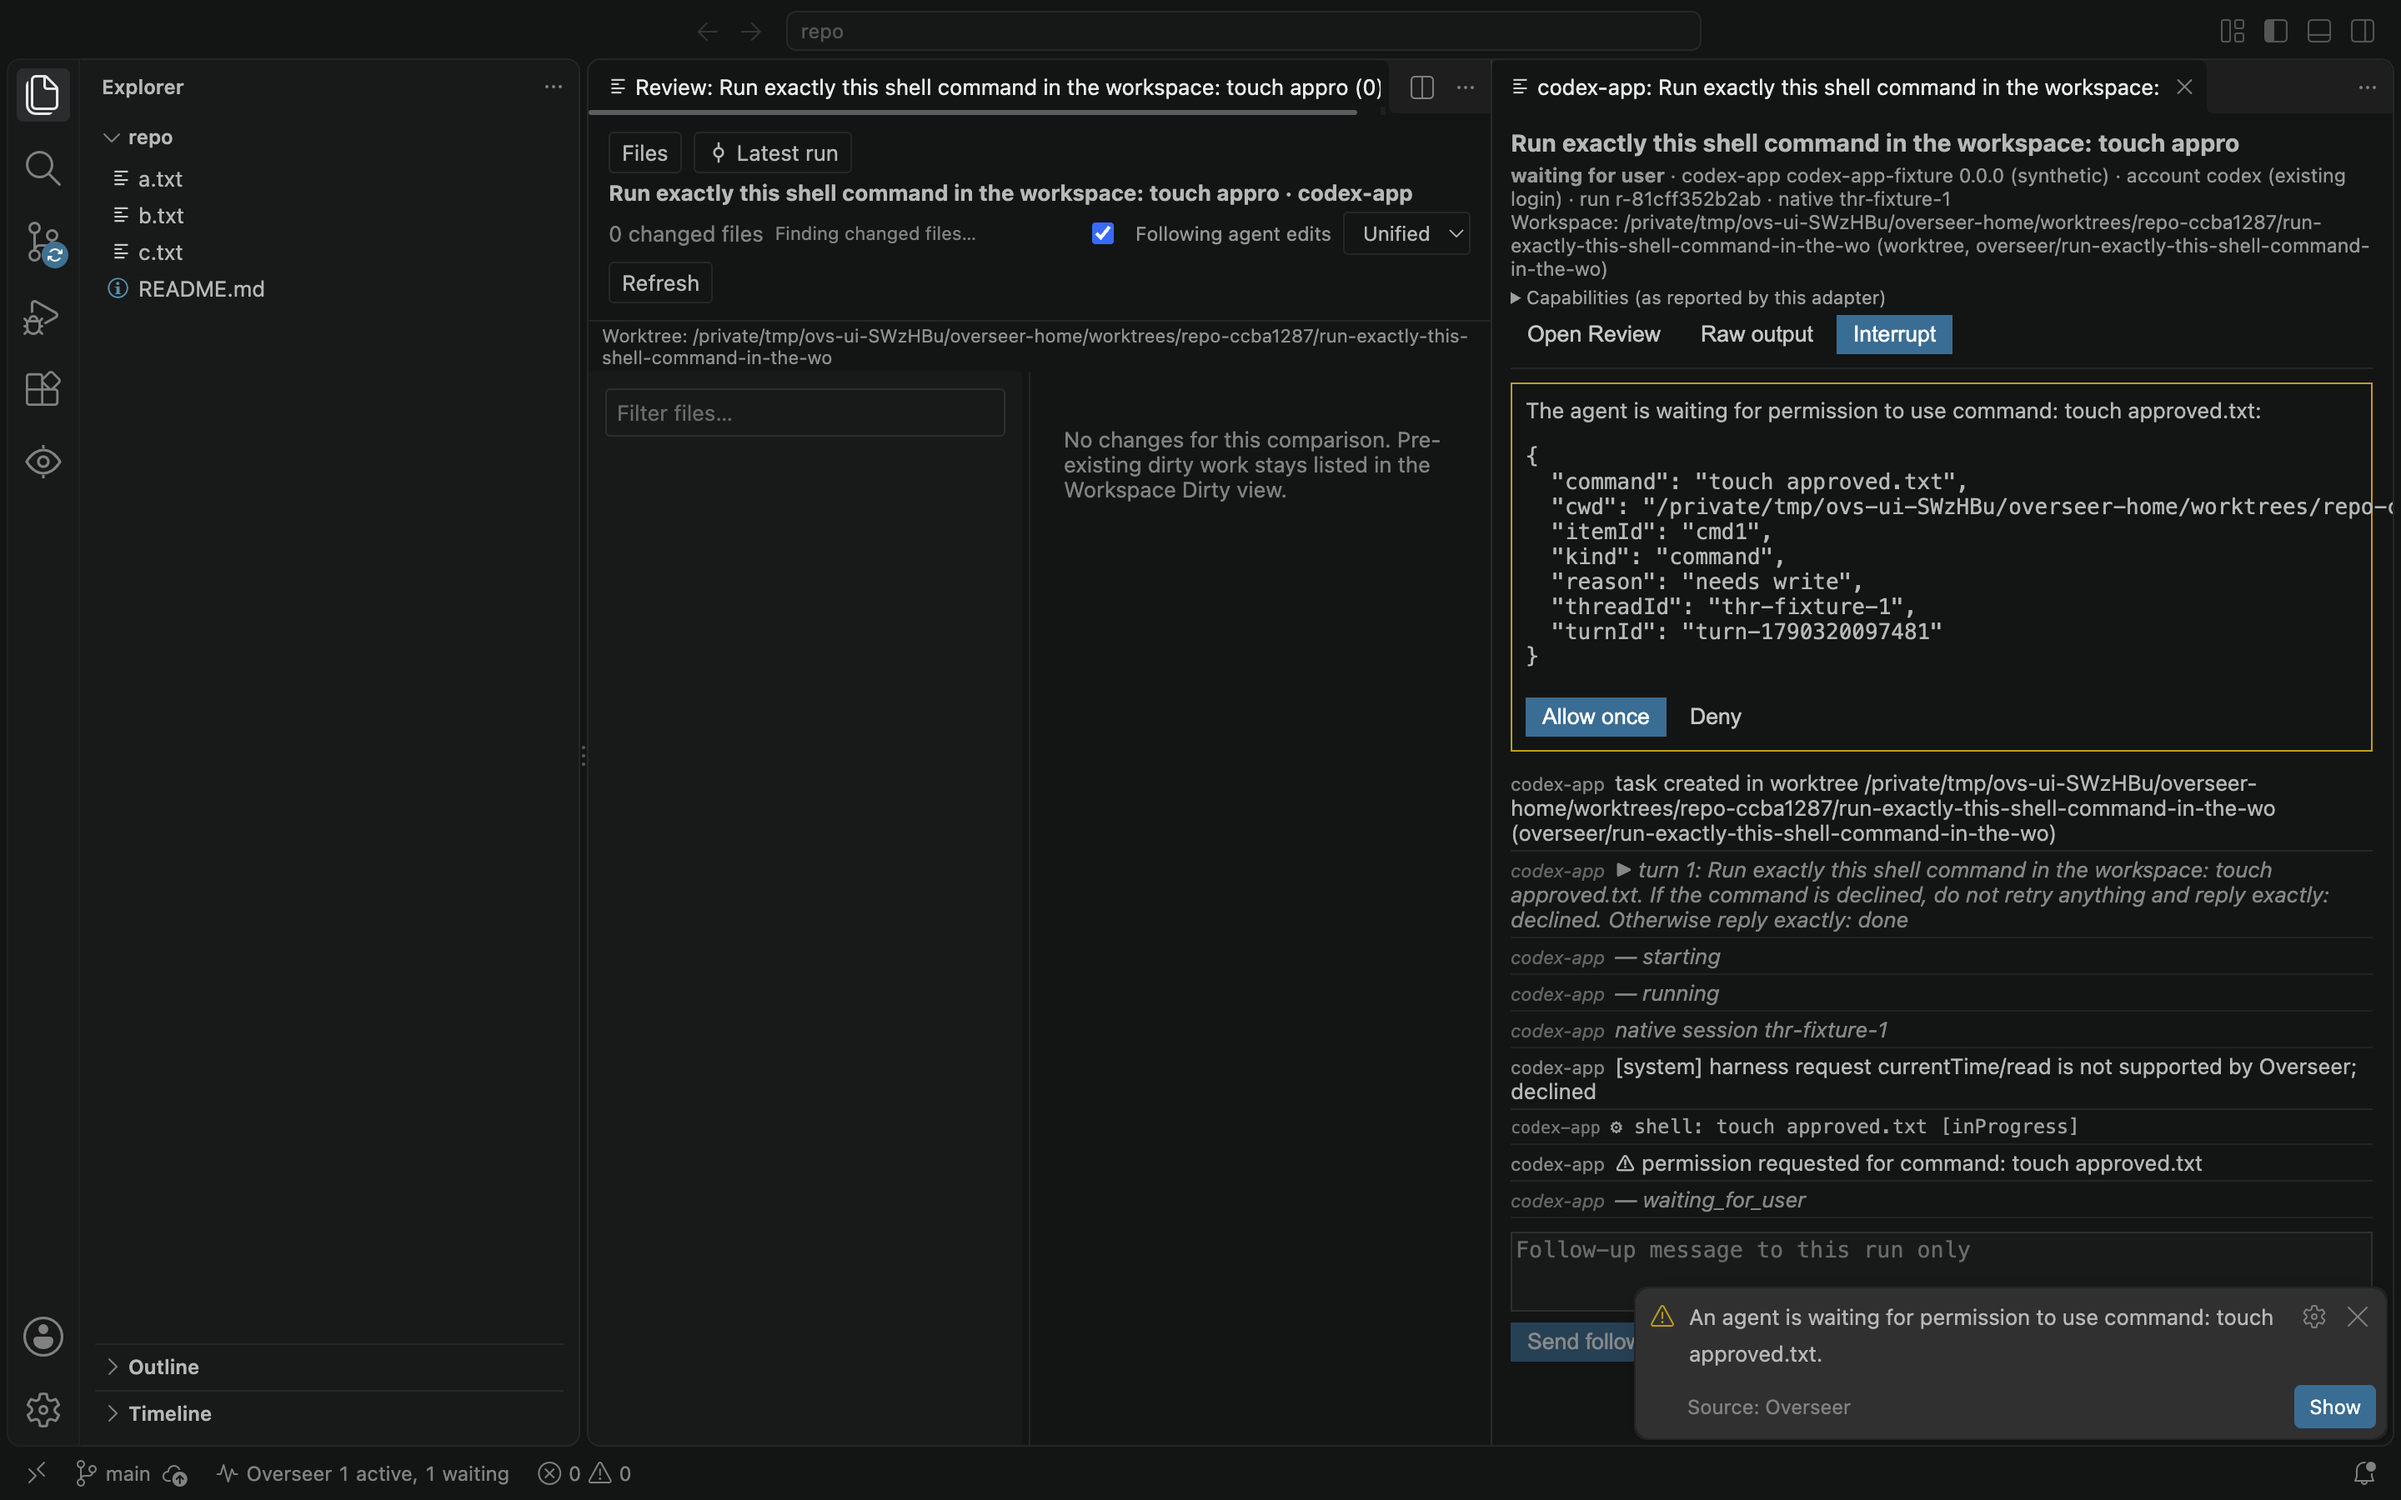
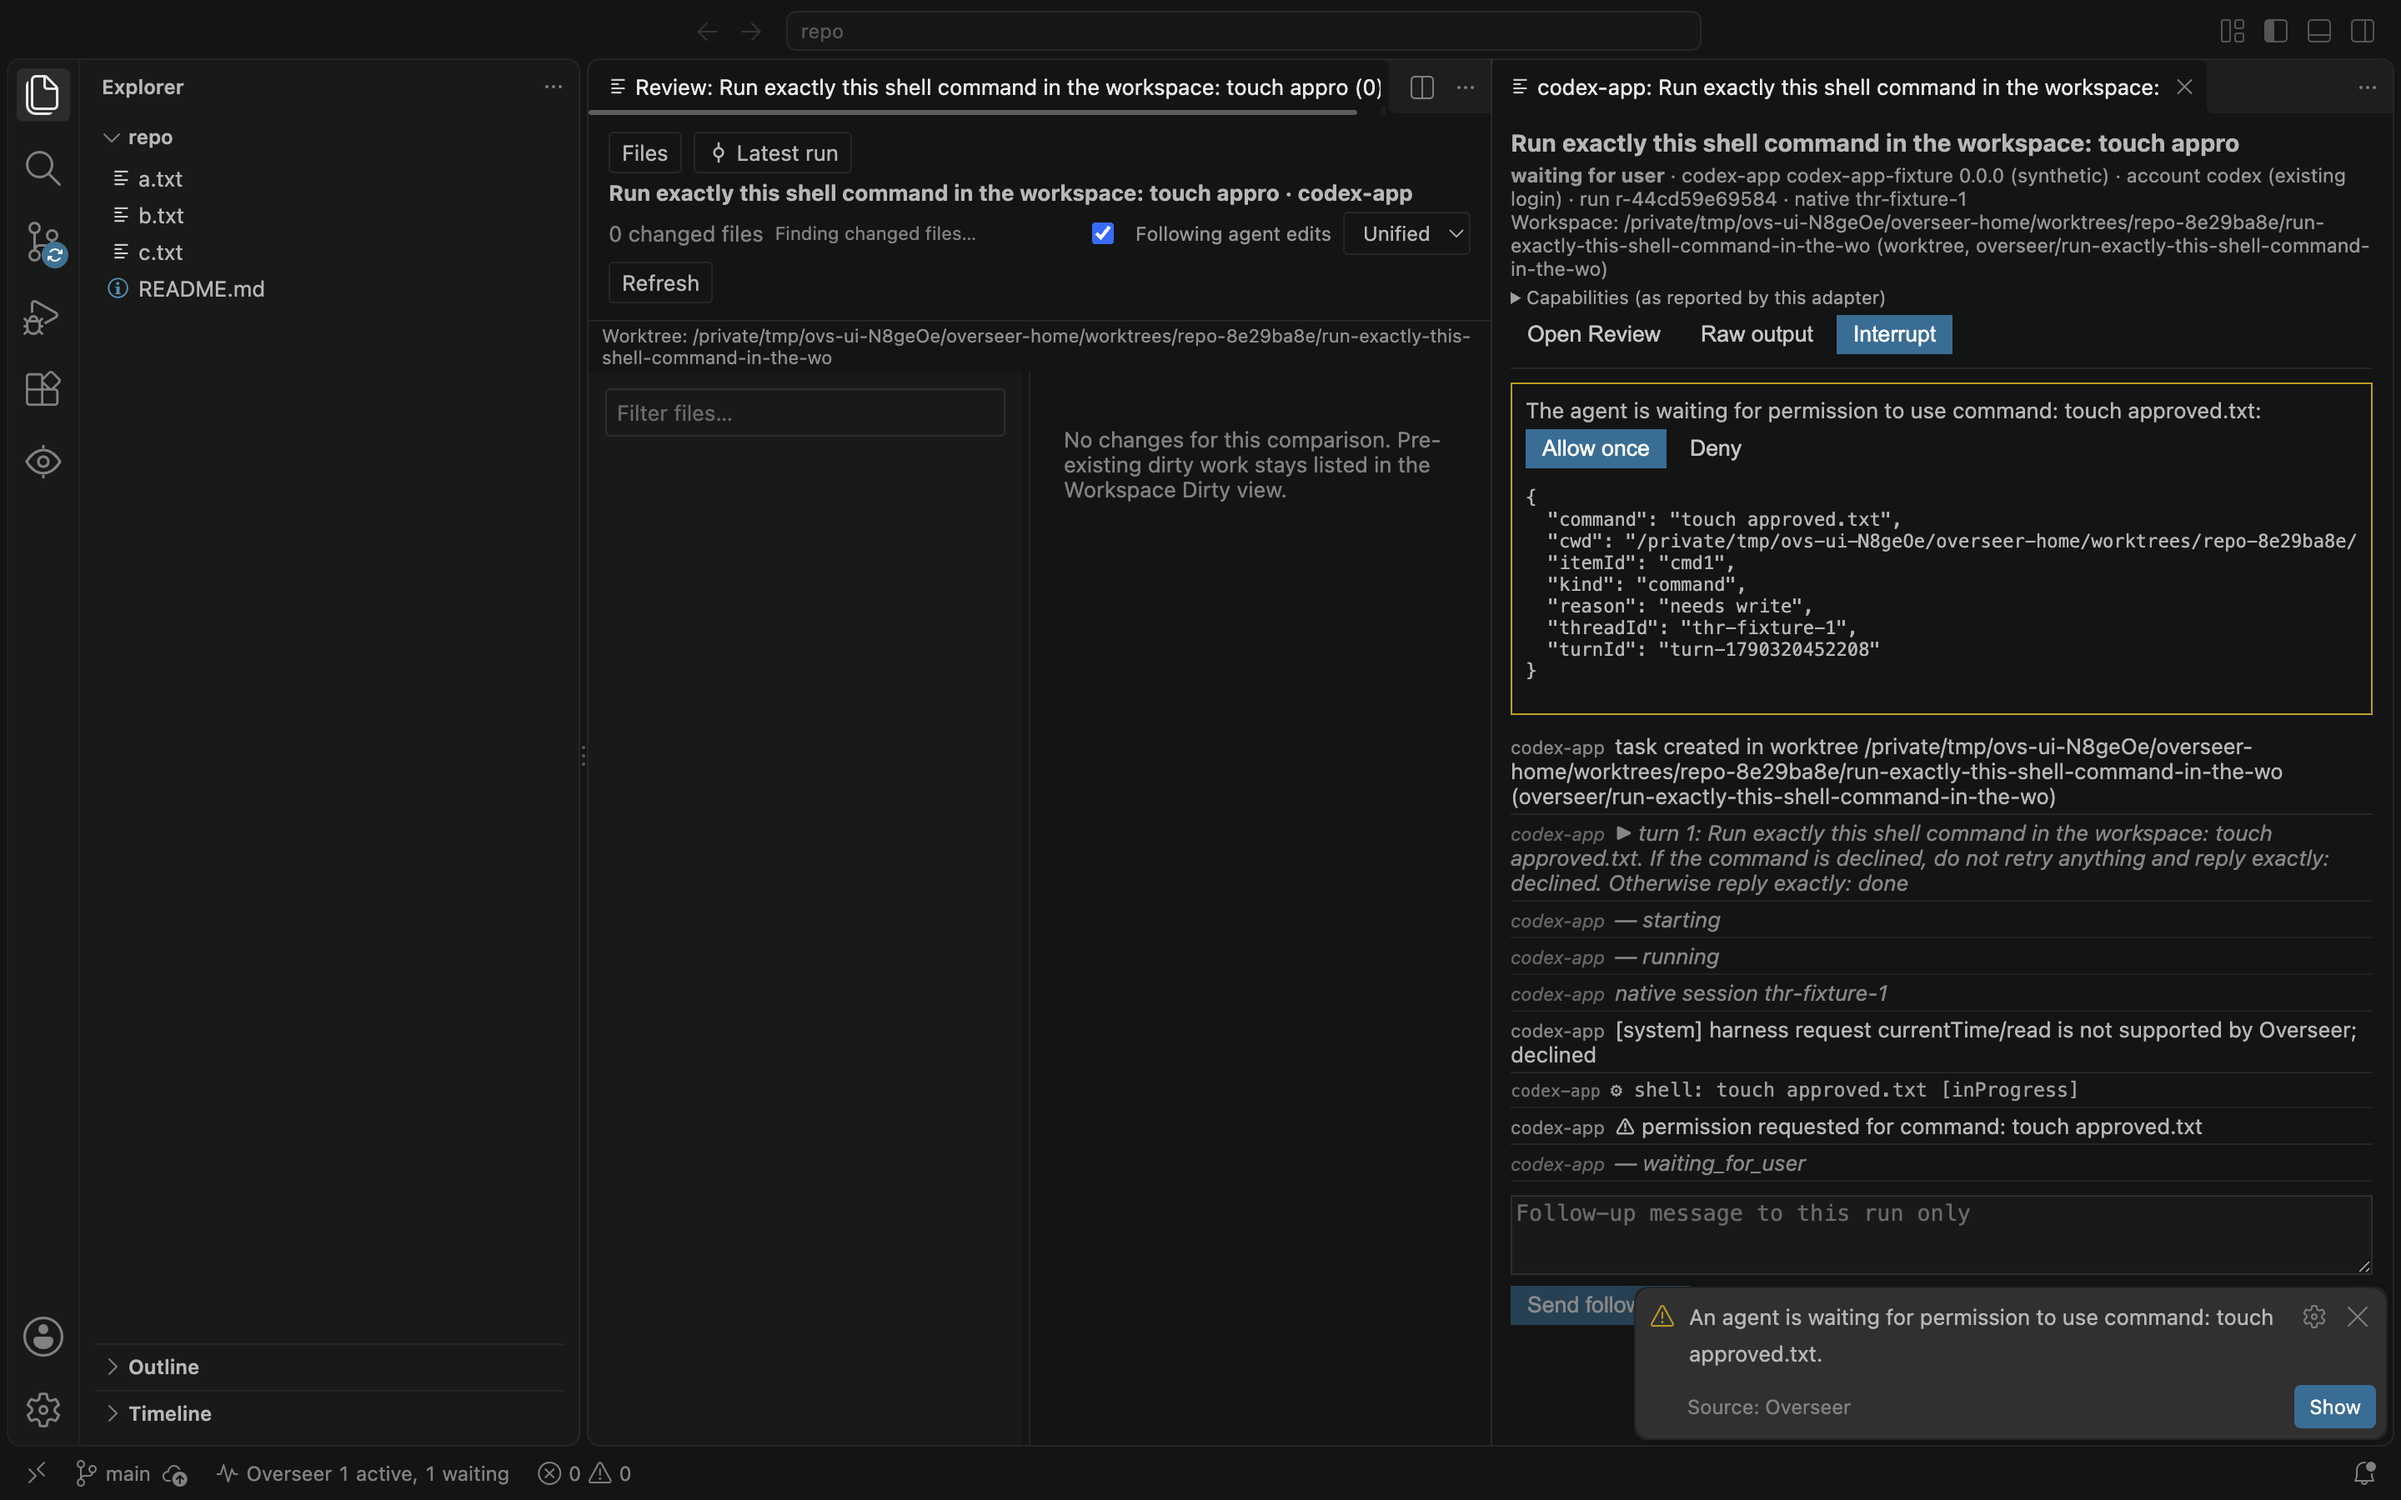
fix: keep permission actions visible for large requests

diff --git a/test/ui/scenario-codex-approval.js b/test/ui/scenario-codex-approval.js
@@ -41,9 +41,11 @@ const PROMPT = 'Run exactly this shell command in the workspace: touch approved.
     check('codex-app run waits for permission (not auto-approved)', w1.status === 'waiting_for_user', { status: w1.status, attention: w1.attention && w1.attention.tool, reason: w1.exit_reason });
     const output = await cdp.webview(`!!document.querySelector('.perm button')`, 30000);
     await s.screenshot('permission-request');
-    await output.eval(`[...document.querySelectorAll('.perm button')].find(b => /Allow/.test(b.textContent)).id = 'allow-btn'`);
+    await output.eval(`(() => { const b = [...document.querySelectorAll('.perm button')].find(b => /Allow/.test(b.textContent)); b.id = 'allow-btn'; b.scrollIntoView({ block: 'center' }); })()`);
     const allow = await s.webviewPoint(output, '#allow-btn');
     await cdp.click(allow.x, allow.y);
+    const answered = await waitFor(r1.id, r => r.status !== 'waiting_for_user', 20);
+    check('Allow click reached the run', answered.status !== 'waiting_for_user', { status: answered.status });
     const d1 = await waitFor(r1.id, r => !['queued', 'starting', 'running', 'waiting_for_user'].includes(r.status));
     const ws1 = s.ctl('state').workspaces.find(w => w.id === r1.workspace_id).path;
     check('Allow runs the command', d1.status === 'completed' && fs.existsSync(path.join(ws1, 'approved.txt')), { status: d1.status, reason: d1.exit_reason });
@@ -58,7 +60,7 @@ const PROMPT = 'Run exactly this shell command in the workspace: touch approved.
       await cdp.click(row.x, row.y);
       const panel = await cdp.webview(`document.getElementById('title')?.textContent.includes(${JSON.stringify(`approval ${mode}`)}) && !!document.querySelector('.perm button')`, 30000);
       if (mode === 'deny') {
-        await panel.eval(`[...document.querySelectorAll('.perm button')].find(b => /Deny/.test(b.textContent)).id = 'deny-btn'`);
+        await panel.eval(`(() => { const b = [...document.querySelectorAll('.perm button')].find(b => /Deny/.test(b.textContent)); b.id = 'deny-btn'; b.scrollIntoView({ block: 'center' }); })()`);
         const p = await s.webviewPoint(panel, '#deny-btn');
         await cdp.click(p.x, p.y);
       } else {

diff --git a/extension/src/output-panel.js b/extension/src/output-panel.js
@@ -102,7 +102,8 @@ h1{font-size:1.1em;margin:0 0 4px}
 .ev.kind-status,.ev.kind-turn_started,.ev.kind-turn_done,.ev.kind-session,.ev.kind-reattached{opacity:.7;font-style:italic}
 .ev.kind-child{color:var(--vscode-charts-purple)}
 .ev.kind-retention{color:var(--vscode-editorWarning-foreground)}
-.perm{border:1px solid var(--vscode-editorWarning-foreground);padding:8px;margin:8px 0}
+.perm{border:1px solid var(--vscode-editorWarning-foreground);padding:8px;margin:8px 0;position:sticky;top:0;background:var(--vscode-editor-background);z-index:2}
+.perm-input{max-height:140px;overflow:auto;font-size:.85em}
 footer{position:sticky;bottom:0;background:var(--vscode-editor-background);padding-top:8px}
 textarea{width:100%;box-sizing:border-box;min-height:48px;background:var(--vscode-input-background);color:var(--vscode-input-foreground);border:1px solid var(--vscode-input-border,transparent)}
 button{background:var(--vscode-button-background);color:var(--vscode-button-foreground);border:none;padding:4px 10px;margin:4px 4px 0 0;cursor:pointer}
@@ -172,7 +173,8 @@ function setRun(msg){ run = msg.run;
     const pre = document.createElement('pre'); pre.textContent = JSON.stringify(run.attention.input, null, 2).slice(0, 4000);
     const allow = document.createElement('button'); allow.textContent = 'Allow once'; allow.onclick = () => vscode.postMessage({ type: 'permission', request_id: run.attention.request_id, allow: true });
     const deny = document.createElement('button'); deny.className = 'secondary'; deny.textContent = 'Deny'; deny.onclick = () => vscode.postMessage({ type: 'permission', request_id: run.attention.request_id, allow: false });
-    box.append(t, pre, allow, deny); perm.append(box);
+    pre.className = 'perm-input';
+    box.append(t, allow, deny, pre); perm.append(box);
   } }
 window.addEventListener('message', e => { const m = e.data;
   if (m.type === 'run') setRun(m);
